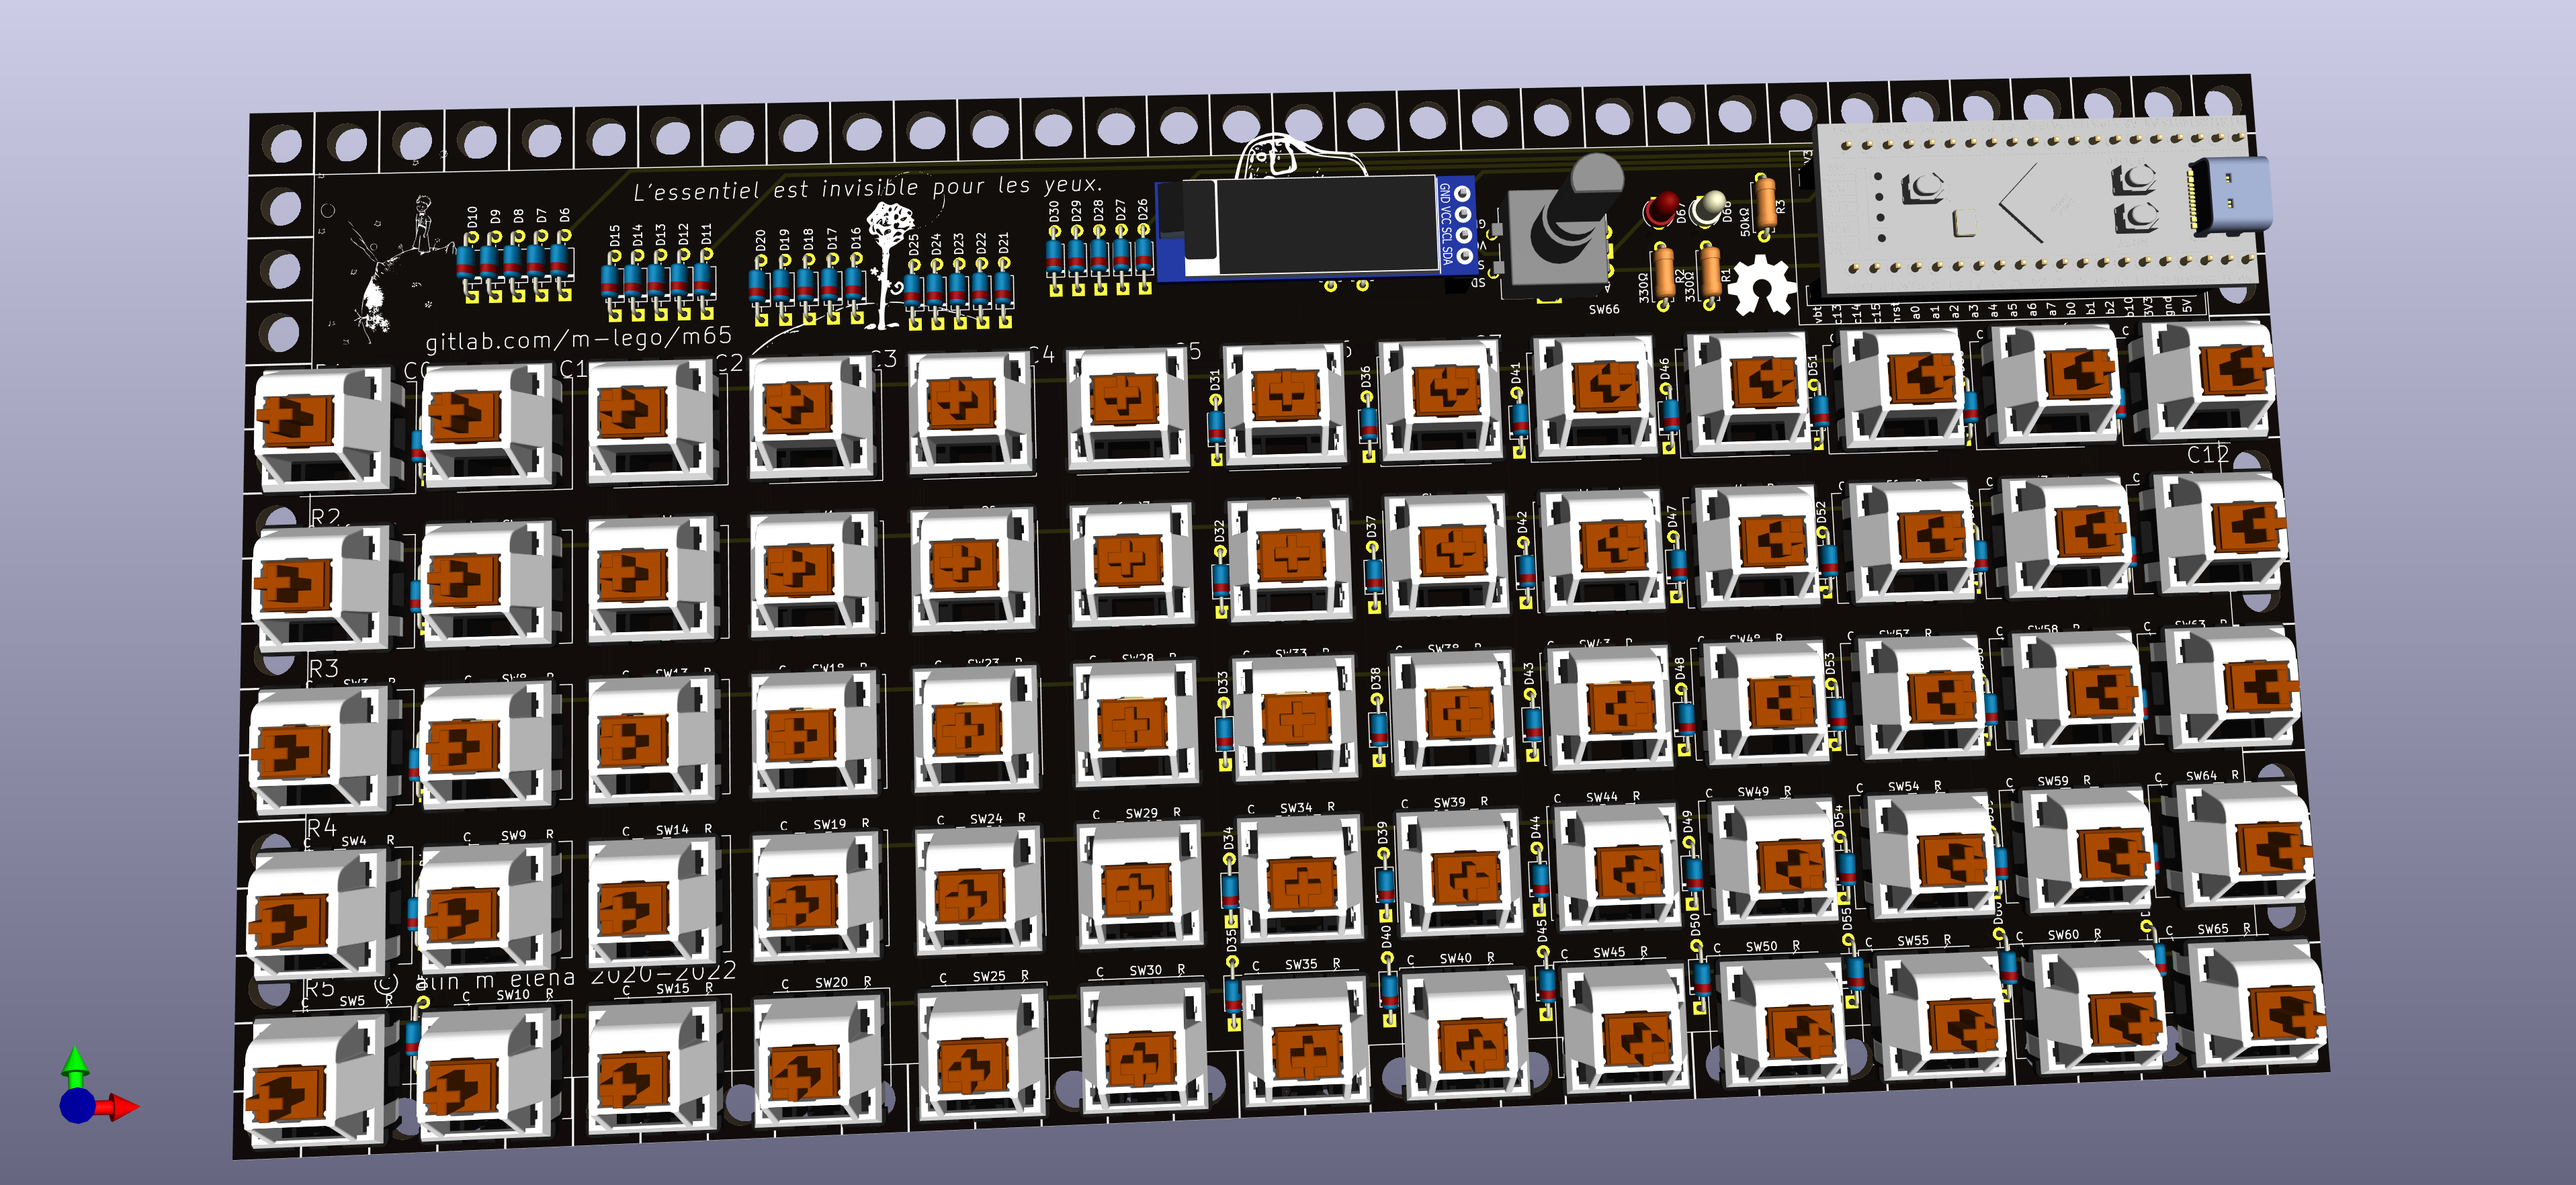
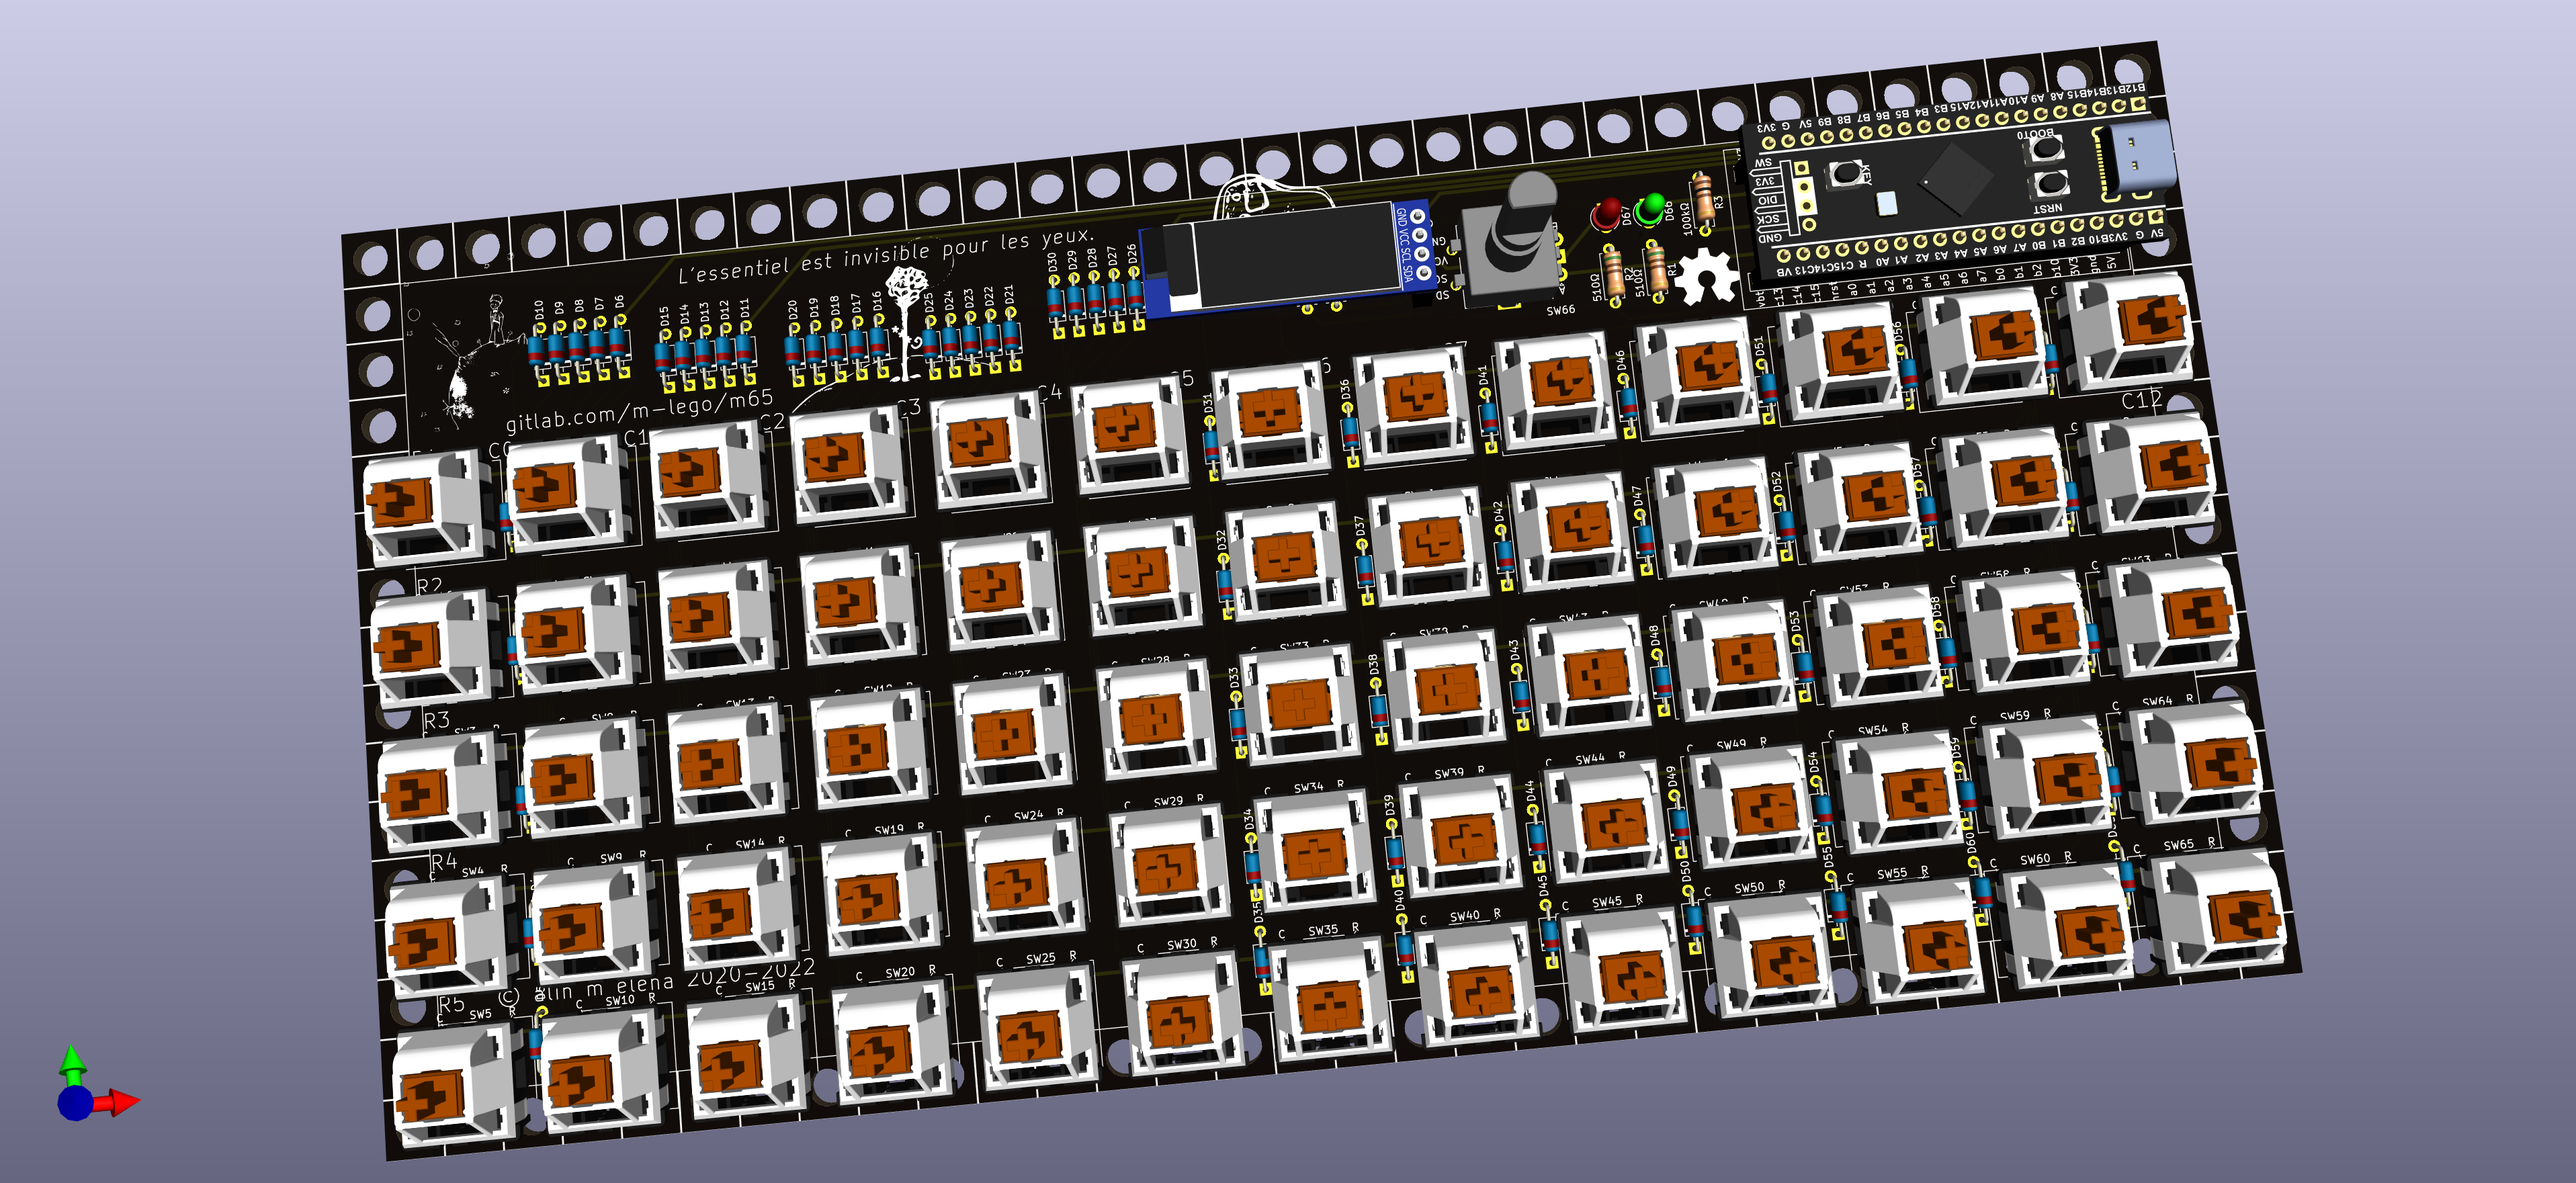
update

diff --git a/notes/m65.md b/notes/m65.md
@@ -1,7 +1,4 @@
-### m65
-
-the lego keyboard
-=================
+### m65 - the lego keyboard
 
   current iteration... this is a departure from the normal matrix keyboard. I am using seeduino [xiao rp2040](https://wiki.seeedstudio.com/XIAO-RP2040/) or [nrf52840](https://wiki.seeedstudio.com/XIAO_BLE/) (probably
 samd21 will work too but I have none to test) and also play with zmk as firmware since I was curious on bt. Since xiao does not have enough pins for the full
@@ -19,8 +16,7 @@ oled since there is little use for it. A proof of concept can be seen in [here](
 
   ![the case render](pics/m65-case.png)
 
-status: **rev 7** in works
-----------------------------------
+#### status: **rev 7** in works
 
 * [x] gerbers designed
 * [x] firmware
@@ -35,8 +31,7 @@ status: **rev 7** in works
 + rev5/rev6 - rp2040 support, rpico, weact and other compatible clones.
 + rev7 xiao rp2040 and nrf52840 with 2 shift registers HC595 and no oled
 
-bom
----
+#### bom
 
  * lego: suggested 1x2 plates(46) or 1x4 plates some colours fit better than others.
  * double sided plate 16x32 studs.... you will need to live with a compatible since lego does not make them in this size, one thing
@@ -62,13 +57,11 @@ bom
  * usb cable, c or mini depending on the mcu.
 
 
-assembly
---------
+#### assembly
 
 this is a very rush [assembly guide](assembly.md) but shall give you the main idea.
 
-thickness
-----------
+#### thickness
 
 depending on what you want the box can come out very thin.. 1 base plate(single or double, flat or angled usage) plus pcb(1.6mm) plus one plate
 intermediate(3.2mm).
@@ -85,8 +78,7 @@ header.
 
   ![1 double base plate, 1 intermediate brick and pcb. 14.4  mm ](pics/thick-3.jpg)
 
-pictures
---------
+#### pictures
 
   the 3d render looks like (version 1)
 
@@ -99,6 +91,12 @@ pictures
   the 3d rev4
 
   ![3d render](pics/m65-rev4-render.png)
+
+  the 3d render rev5/rev6
+
+  ![3d render](pics/m65-rev5-render.png)
+
+  ![3d render back](pics/m65-rev5-render-back.png)
 
   the pcb (version 1)
 
@@ -121,12 +119,6 @@ pictures
   ![the pcb rev4 ](pics/m65-rev4-pcb.jpg)
 
   ![rev5/6](pics/m65-rev5-blank.jpg)
-
-  the 3d render looks like
-
-  ![3d render](pics/m65-rev5-render.png)
-
-  ![3d render back](pics/m65-rev5-render-back.png)
 
   the pcb for rev5
 
@@ -228,10 +220,10 @@ pictures
 
   ![mt3 elvish ](pics/m65-dwarvish.jpg)
 
-firmware
---------
 
-   layout is bellow, but since is qmk can be whatever one likes, no 5 will be Danish for example.
+#### keymaps/layout
+
+   layout is bellow, but since is qmk can be whatever one likes.
 
    ![layout simplified summary](pics/m65-l1.png)
 
@@ -239,12 +231,14 @@ firmware
 
    ![layout rse](pics/m65-rse.png)
 
-   is qmk and is in a branch for the moment, I assume you already have qmk environment configured.
+#### firmware
 
-   microcontroller stm32f103/apm32 from robotdyn... aka black pill, https://robotdyn.com/black-pill-apm32f103cb-128kb-flash-20kb-sram-stm32-compatible-arm-cortexr-m3-mcu-mini-board.html
+   is qmk, I assume you already have qmk environment configured.
+   can be donloaded, depending on the revision from list below or build by yourself
 
 ```bash
    git clone --recurse-submodules https://github.com/qmk/qmk_firmware.git
+   cd qmk_firmware
    make mlego/m65/rev1:uk
    make mlego/m65/rev1:uk:flash
 ```
@@ -253,6 +247,7 @@ you can use also gdf303 from we act aka bluepill plus  https://github.com/WeActT
 
 ```bash
    git clone --recurse-submodules https://github.com/qmk/qmk_firmware.git
+   cd qmk_firmware
    make mlego/m65/rev2:uk
    make mlego/m65/rev2:uk:flash
 ```
@@ -261,25 +256,28 @@ you can use also stm32f401 from we act
 
 ```bash
    git clone --recurse-submodules https://github.com/qmk/qmk_firmware.git
+   cd qmk_firmware
    make mlego/m65/rev3:uk
    make mlego/m65/rev3:uk:flash
 ```
+
 
 for rev4
 
 ```bash
    git clone --recurse-submodules https://github.com/qmk/qmk_firmware.git
+   cd qmk_firmware
    make mlego/m65/rev4:uk
-   make mlego/m65/rev4:uk:flash
 ```
 
+copy the resulting uf2 on the mcu as per instructions.
 
-pins and more
-=============
 
-## Pins and leds rev1 STM/APM32F103C8T6
+#### pins and more
 
-similar pinout for STM32F303
+##### Pins and leds rev1 STM/APM32F103C8T6
+
+**similar pinout for STM32F303**
 
 | Rows  | C0    | C1    | C2    | C3    | C4    | C5    | C6    | C7    | C8    | C9    | C10   | C11   | C12   | Pins  |
 | :---: | :---: | :---: | :---: | :---: | :---: | :---: | :---: | :---: | :---: | :---: | :---: | :---: | :---: | :---: |
@@ -290,12 +288,12 @@ similar pinout for STM32F303
 | R4    | Ctrl  | Menu  | Lower | Alt   | Raise | Space | Space | Space | AltGr | Shift | Left  | Down  | Right | A3    |
 |       | A10   | A15   | B3    | B4    | B5    | B9    | B8    | B7    | B6    | C15   | A0    | A7    | B10   |       |
 
-### Encoders
+**Encoders**
 
   - Pad_A: A8
   - Pad_B: A9
 
-### Leds
+**Leds**
 
 | Leds        | Pin |
 | ----------- | --- |
@@ -304,7 +302,7 @@ similar pinout for STM32F303
 | SCROLL_LOCK | B13 |
 | RBG_DI      | B15 |
 
-## Pins and leds rev2 GD32F303CCT6
+##### Pins and leds rev2 GD32F303CCT6
 
 
 | Rows  | C0    | C1    | C2    | C3    | C4    | C5    | C6    | C7    | C8    | C9    | C10   | C11   | C12   | Pins  |
@@ -317,12 +315,12 @@ similar pinout for STM32F303
 |       | A10   | A15   | B3    | B4    | B5    | B9    | B8    | B7    | B6    | C15   | A0    | A7    | B10   |       |
 
 
-### Encoders
+**Encoders**
 
   - Pad_A: A8
   - Pad_B: A9
 
-### Leds
+**Leds**
 
 | Leds        | Pin |
 | ----------- | --- |
@@ -332,9 +330,9 @@ similar pinout for STM32F303
 | RBG_DI      | B15 |
 
 
-## Pins and leds rev3 stm32f401
+##### Pins and leds rev3 stm32f401
 
-the pinout is the same for stm32f411
+**the pinout is the same for stm32f411**
 
 | Rows  | C0    | C1    | C2    | C3    | C4    | C5    | C6    | C7    | C8    | C9    | C10   | C11   | C12   | Pins  |
 | :---: | :---: | :---: | :---: | :---: | :---: | :---: | :---: | :---: | :---: | :---: | :---: | :---: | :---: | :---: |
@@ -345,12 +343,12 @@ the pinout is the same for stm32f411
 | R4    | Ctrl  | Menu  | Lower | Alt   | Raise | Space | Space | Space | AltGr | Shift | Left  | Down  | Right | B0    |
 |       | A10   | A15   | B3    | B4    | B5    | B9    | B8    | B7    | A1    | A2    | A3    | A4    | B1    |       |
 
-### Encoders
+**Encoders**
 
   - Pad_A: A0
   - Pad_B: B6
 
-### LEDS
+**Leds**
 
 | Leds        | Pin |
 | ----------- | --- |
@@ -359,9 +357,9 @@ the pinout is the same for stm32f411
 | SCROLL_LOCK | B13 |
 | RBG_DI      | B15 |
 
-## Pins and leds rev4 stm32f401
+##### Pins and leds rev4 stm32f401
 
-the pinout is the same for stm32f411
+**the pinout is the same for stm32f411**
 
 | Rows  | C0    | C1    | C2    | C3    | C4    | C5    | C6    | C7    | C8    | C9    | C10   | C11   | C12   | Pins  |
 | :---: | :---: | :---: | :---: | :---: | :---: | :---: | :---: | :---: | :---: | :---: | :---: | :---: | :---: | :---: |
@@ -372,17 +370,17 @@ the pinout is the same for stm32f411
 | R4    | Ctrl  | Menu  | Lower | Alt   | Raise | Space | Space | Space | AltGr | Shift | Left  | Down  | Right | B0    |
 |       | B14   | A8    | A10   | A15   | B3    | B4    | B5    | B7    | A1    | A2    | A3    | A4    | B1    |       |
 
-### Encoders
+**Encoders**
 
   - Pad_A: A0
   - Pad_B: B6
 
-### Oled
+**Oled**
 
   - SDA: B9
   - SCL/SCK: B8
 
-### LEDS
+**Leds**
 
 | Leds        | Pin |
 | ----------- | --- |
@@ -391,7 +389,7 @@ the pinout is the same for stm32f411
 | SCROLL_LOCK | B13 |
 | RBG_DI      | B15 |
 
-## Pins and leds rev5 rp2040 Raspberry Pico, Teenstar
+##### Pins and leds rev5 rp2040 Raspberry Pico, Teenstar
 
 | Rows  | C0    | C1    | C2    | C3    | C4    | C5    | C6    | C7    | C8    | C9    | C10   | C11   | C12   | Pins  |
 | :---: | :---: | :---: | :---: | :---: | :---: | :---: | :---: | :---: | :---: | :---: | :---: | :---: | :---: | :---: |
@@ -402,17 +400,17 @@ the pinout is the same for stm32f411
 | R4    | Ctrl  | Menu  | Lower | Alt   | Raise | Space | Space | Space | AltGr | Shift | Left  | Down  | Right | GP20  |
 |       | GP1   | GP6   | GP7   | GP8   | GP9   | GP15  | GP14  | GP13  | GP12  | GP11  | GP10  | GP17  | GP21  |       |
 
-### Encoders
+**Encoders**
 
   - Pad_A: GP4
   - Pad_B: GP5
 
-### Oled
+**Oled**
 
   - SDA: GP2
   - SCL/SCK: GP3
 
-### LEDS
+**Leds**
 
 | Leds        | Pin |
 | ----------- | --- |
@@ -422,7 +420,7 @@ the pinout is the same for stm32f411
 | RBG_DI      | GP0 |
 
 
-## Pins and leds rev6 rp2040 weact
+##### Pins and leds rev6 rp2040 weact
 
 | Rows  | C0    | C1    | C2    | C3    | C4    | C5    | C6    | C7    | C8    | C9    | C10   | C11   | C12   | Pins  |
 | :---: | :---: | :---: | :---: | :---: | :---: | :---: | :---: | :---: | :---: | :---: | :---: | :---: | :---: | :---: |
@@ -433,17 +431,17 @@ the pinout is the same for stm32f411
 | R4    | Ctrl  | Menu  | Lower | Alt   | Raise | Space | Space | Space | AltGr | Shift | Left  | Down  | Right | GP20  |
 |       | GP1   | GP6   | GP7   | GP8   | GP9   | GP15  | GP14  | GP13  | GP12  | GP11  | GP10  | GP17  | GP21  |       |
 
-### Encoders
+**Encoders**
 
   - Pad_A: GP4
   - Pad_B: GP5
 
-### Oled
+**Oled**
 
   - SDA: GP2
   - SCL/SCK: GP3
 
-### LEDS
+**Leds**
 
 | Leds        | Pin |
 | ----------- | --- |
